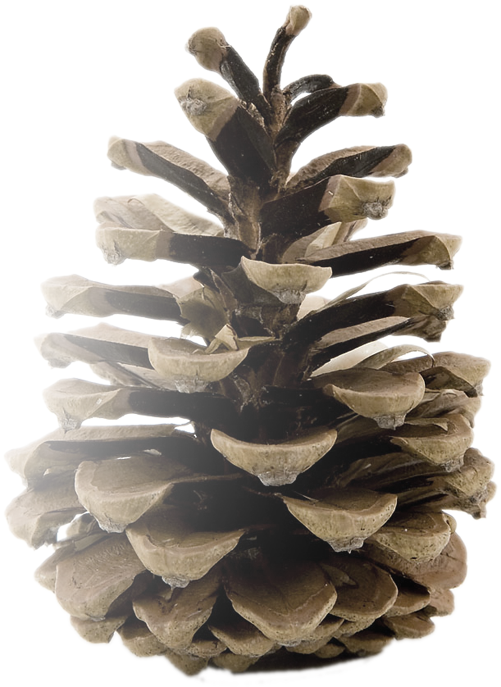
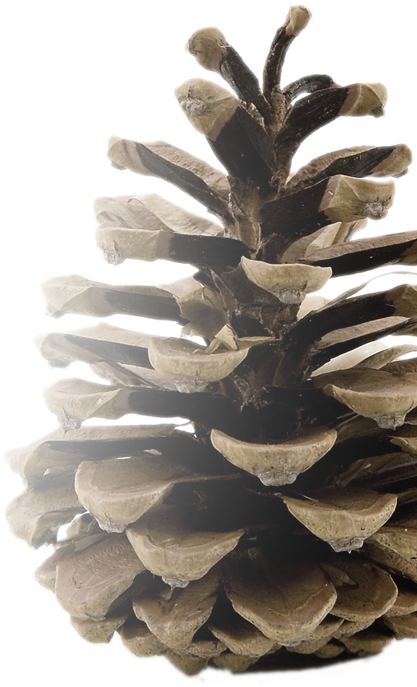
right pinecone doens't hang off edge

diff --git a/index.html b/index.html
@@ -95,7 +95,7 @@
   </div>
 </section>
 
-<section id="lets_chat" data-stellar-offset-parent="true">
+<section id="lets_chat">
   <div class="centered">
     <h1>LET'S CHAT</h1>
     <form action="//formspree.io/michael.john.kirk@gmail.com" method="POST">
@@ -107,9 +107,9 @@
     </form>
   </div>
 
-  <img data-stellar-ratio="4" id="near-cone" src="img/near_cone.png">
-  <img data-stellar-ratio="2" id="mid-cone" src="img/mid_cone.png">
-  <img data-stellar-ratio="1" id="far-cone" src="img/far_cone.png">
+  <img id="near-cone" src="img/near_cone.png">
+  <img id="mid-cone" src="img/mid_cone.png">
+  <img id="far-cone" src="img/far_cone.png">
 </section>
 
 <div class="footer">

diff --git a/css/style.scss b/css/style.scss
@@ -286,8 +286,8 @@ section {
     position: absolute;
     z-index: -1;
     bottom: 93px;
-    right: -43px;
-    width: 275px;
+    right: 0px;
+    width: 229px;
     height: 400px;
     @media (max-width: $screen-sm-min) {
       display: none !important;
